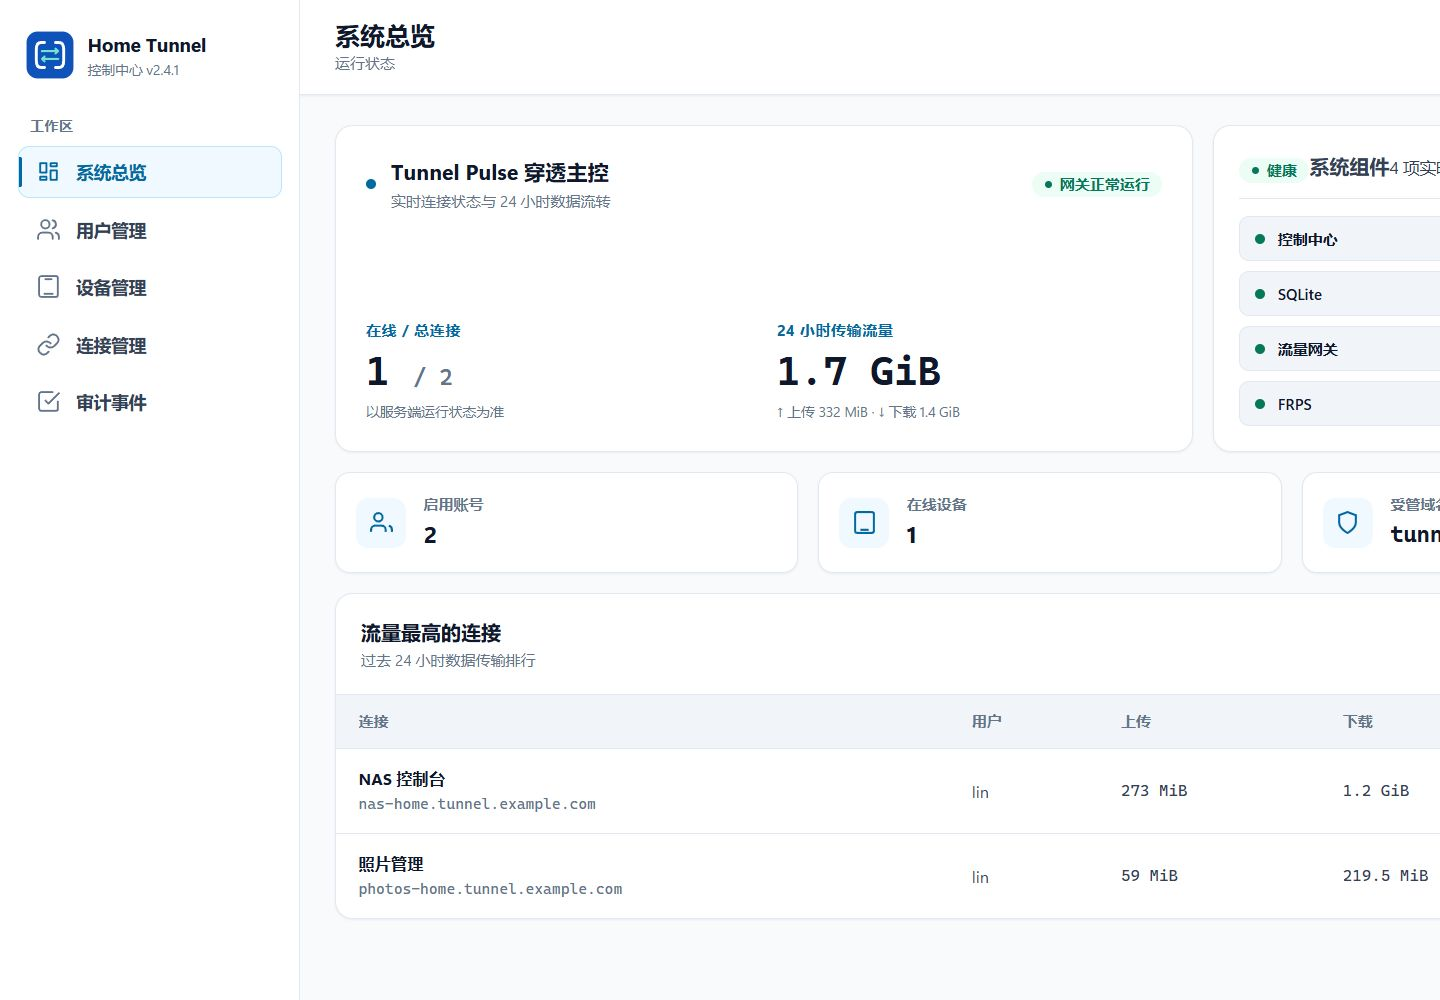
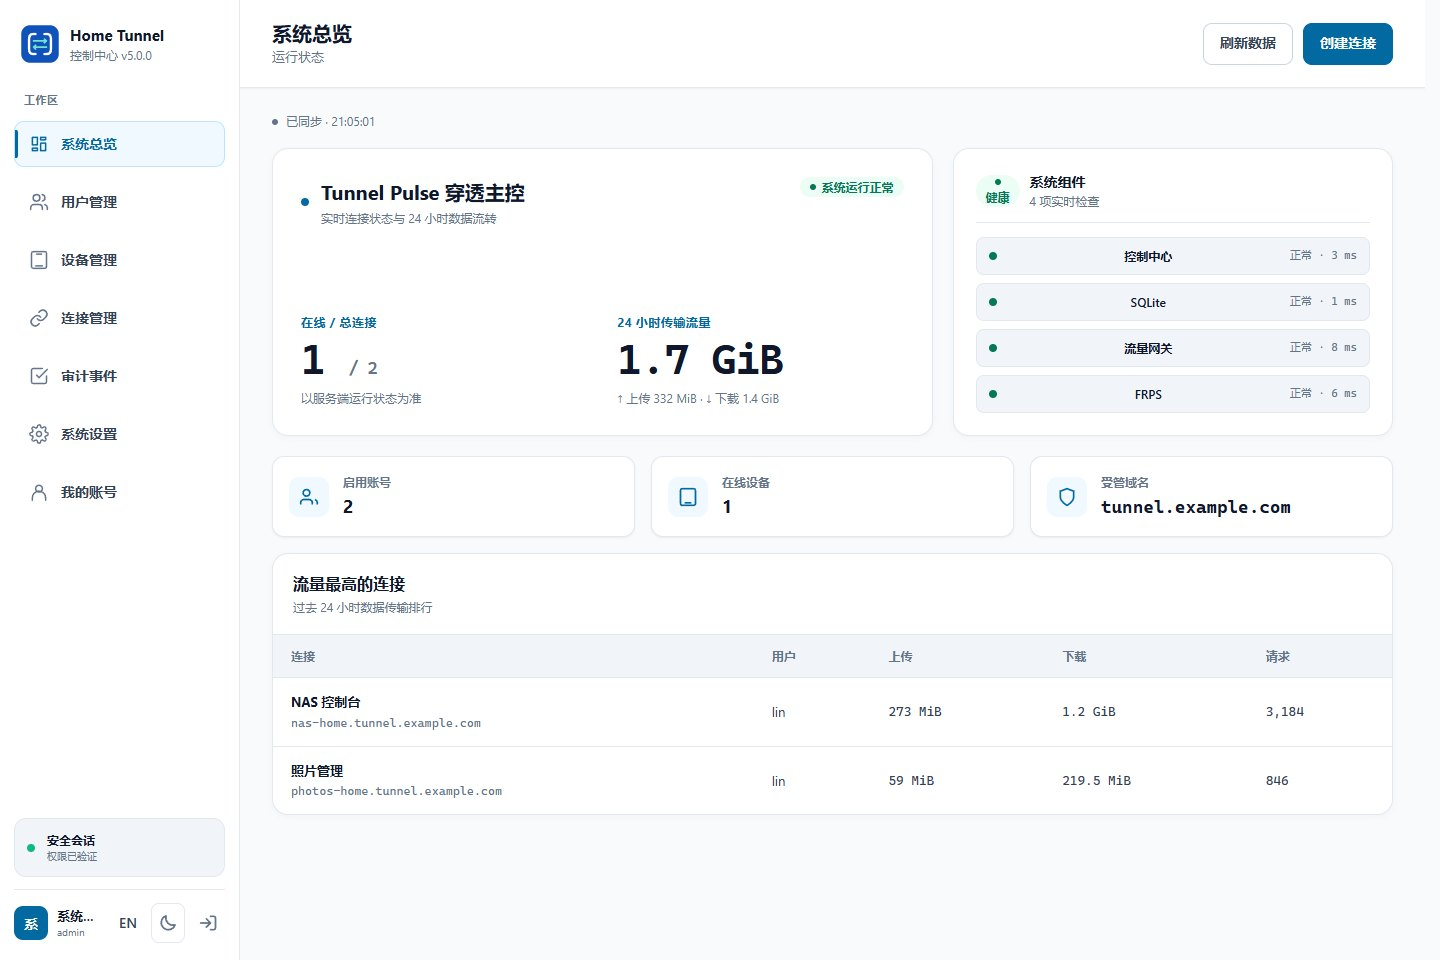
Finish 5.0 verification fixtures, privacy cleanup and release notes

diff --git a/control-center/public/app.js b/control-center/public/app.js
@@ -215,6 +215,7 @@ function showLogin(message = "") {
   state.me = null;
   state.csrf = "";
   setPendingCurrentPassword(null);
+  document.querySelector("#login-password").value = "";
   disconnectRealtime();
   landingScreen.classList.add("hidden");
   appShell.classList.add("hidden");
@@ -1777,7 +1778,10 @@ document.querySelectorAll(".password-toggle").forEach((button) =>
 document.querySelector("#modal-close").addEventListener("click", requestModalClose);
 modal.addEventListener("close", () => {
   modalError.textContent = "";
-  if (!modal.open) modalForm.onsubmit = null;
+  if (!modal.open) {
+    modalForm.onsubmit = null;
+    modalBody.replaceChildren();
+  }
   if (state.pendingRefresh && !modal.open) void renderView(state.currentView, { background: true });
 });
 
@@ -1809,6 +1813,7 @@ loginForm.addEventListener("submit", async (event) => {
       false,
     );
     state.csrf = result.csrf_token;
+    document.querySelector("#login-password").value = "";
     if (result.password_change_required) {
       loginForm.classList.add("hidden");
       passwordForm.classList.remove("hidden");

diff --git a/control-center/src/experience.test.ts b/control-center/src/experience.test.ts
@@ -1,8 +1,10 @@
+import { randomBytes } from "node:crypto";
 import assert from "node:assert/strict";
 import { once } from "node:events";
 import test from "node:test";
 
 test("5.0 owner-aware validation, partial policies and complete pagination", async (t) => {
+  const userPassword = `test-${randomBytes(24).toString("hex")}-Q8`;
   process.env.NODE_ENV = "test";
   process.env.SQLITE_PATH = ":memory:";
   process.env.INTERNAL_SERVICE_KEY = "11".repeat(32);
@@ -81,13 +83,13 @@ test("5.0 owner-aware validation, partial policies and complete pagination", asy
     await call(
       "POST",
       "/api/v1/auth/password/change",
-      { current_password: user.temporary_password, new_password: "Private-Experience-S9-safe" },
+      { current_password: user.temporary_password, new_password: userPassword },
       first.data.access_token,
     );
     const token = (
       await call("POST", "/api/v1/auth/login", {
         username: "lin",
-        password: "Private-Experience-S9-safe",
+        password: userPassword,
         client_type: "linux",
       })
     ).data.access_token;

diff --git a/linux-client/internal/gui/web/desktop.js b/linux-client/internal/gui/web/desktop.js
@@ -193,6 +193,7 @@
         localStorage.setItem("ht_server", $("server").value);
         localStorage.setItem("ht_username", $("username").value);
         await api("/local/login", { method: "POST", body: JSON.stringify({ server: $("server").value, username: $("username").value, password: $("password").value, new_password: $("new-password").value }) });
+        $("password").value = ""; $("new-password").value = ""; $("confirm-password").value = "";
         await showHome();
       } catch (error) {
         if (/requires a password change|PASSWORD_CHANGE_REQUIRED/.test(error.message)) {

diff --git a/docs/RELEASE_NOTES.md b/docs/RELEASE_NOTES.md
@@ -1,0 +1,37 @@
+# Home Tunnel 5.0.0
+
+5.0 focuses on reliable operations and a clearer interface across the web console, desktop client and Android management app.
+
+## 本次更新
+
+- 连接管理改为响应式卡片，加入搜索、分页、暂停与诊断详情。
+- 修复带宽整数校验、语言和主题重复切换、会话失效与保存失败反馈。
+- 实时刷新保留正在输入的内容和焦点；断线时明确标注缓存状态。
+- 子域检查按目标账号与当前连接执行，修正前缀和自身占用判断。
+- 保留非敏感草稿，提供版本冲突后的明确恢复与重新提交路径。
+- 增加主动修改密码、月度额度自查与准确的组件健康状态。
+- 桌面客户端支持 Enter 提交、密码显示、首次改密引导和请求状态。
+- Android 在保存成功后关闭编辑器，并提供刷新、缓存提醒和冲突恢复。
+- 将浏览器交互、桌面网页检查和发布脚本验证纳入持续检查。
+
+对应审计问题与验证方式见 [5.0 验证记录](https://github.com/ZHanry/home-tunnel/blob/main/docs/UX_5_VALIDATION.md)。
+
+## Downloads
+
+- **Windows x64:** `HomeTunnel-Setup-5.0.0-x64.exe` or `HomeTunnel-Windows-5.0.0-x64.zip`.
+- **Linux amd64 / arm64:** `home-tunnel-linux-5.0.0-<arch>.tar.gz`.
+- **macOS amd64 / arm64:** `home-tunnel-macos-5.0.0-<arch>.tar.gz` (Beta).
+- **Android 8.0+ arm64:** `HomeTunnel-Android-5.0.0-arm64-v8a.apk` (Experimental). Android manages remote devices; it does not run a tunnel Agent on the phone. The AAB is not directly installable.
+
+Verify the signed `SHA256SUMS.txt` and accompanying Sigstore evidence before installing. The Android APK keeps the project's persistent release certificate. Windows binaries do not carry a trusted Authenticode publisher certificate, so Windows may show an unknown-publisher prompt; the signed artifact manifest is a separate verification mechanism.
+
+## Upgrade
+
+1. Back up SQLite consistently and retain `.env`, deployment secrets, the FRPS TLS certificate, and any existing-Caddy override.
+2. Upgrade the control-center and traffic-gateway images together. Database migrations run on startup; preserve the database volume.
+3. Keep the reviewed FRPS `0.70.1-r2` dependency and existing TCP/UDP enablement and firewall settings. The upgrade does not require enabling new public ports.
+4. Update clients through the matching packages and verify device synchronization and public access.
+
+The administrator connection-list endpoint now includes pagination metadata. Integrations must follow subsequent pages instead of assuming one response contains every connection. Client connection endpoints and the v1 transport contract remain compatible.
+
+Stable promotes the same commit, immutable image digests and artifact bytes accepted by the matching RC. The release includes service smoke, backup/restore and platform verification evidence. Automated checks are distinct from a physical-device usability certification.

diff --git a/docs/UX_5_VALIDATION.md b/docs/UX_5_VALIDATION.md
@@ -34,3 +34,7 @@ This release addresses the UI and interaction audit against 4.0.0. The table map
 CI retains the service coverage gates, Go tests and analysis, Android tests/lint, CodeQL, secret scanning, static site checks and dependency review. RC builds publish immutable image digests and signed artifact manifests. Stable promotes the exact accepted RC. Android keeps its persistent signing certificate and does not embed a tunnel Agent. Windows packages are Go binaries; Sigstore evidence does not imply Windows Authenticode trust.
 
 Physical-device checks and production-path smoke are distinct: browser fixtures cannot prove a real tunnel or certify all device accessibility. Read the published release smoke and platform evidence for the exact tested scope.
+
+## Connection workspace
+
+![Home Tunnel 5.0 connection workspace with local fixture data](site/assets/admin-connections-v5.jpg)
